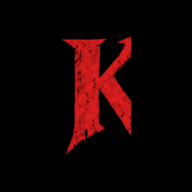
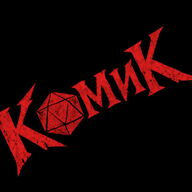
Иконки «Комик» — вернуть диагональный логотип в трёх цветах
Три иконки «Комик» снова с диагональным логотипом КОМИК (как раньше),
теперь в красном, белом и нейтральном стальном цветах. Кэш sw до v107.

Claude-Session: https://claude.ai/code/session_019dhe7Vyv7LgKppqRUxENSC

Changed region(s): [[0.0, 0.125, 1.0, 0.9375]]

diff --git a/sw.js b/sw.js
@@ -2,7 +2,7 @@
    Стратегия stale-while-revalidate: отдаём страницу из кэша мгновенно,
    а в фоне тихо перекачиваем свежую — она подхватится на следующем заходе.
    Так первый экран открывается сразу, без ожидания сети, и остаётся актуальным. */
-const CACHE = 'comik-v106';
+const CACHE = 'comik-v107';
 // мелкие статические файлы прогреваем сразу при установке
 const PRECACHE = ['manifest.webmanifest', 'fonts.css', 'supabase.js', 'icon-192.png', 'icon-512.png', 'apple-touch-icon.png'];
 
